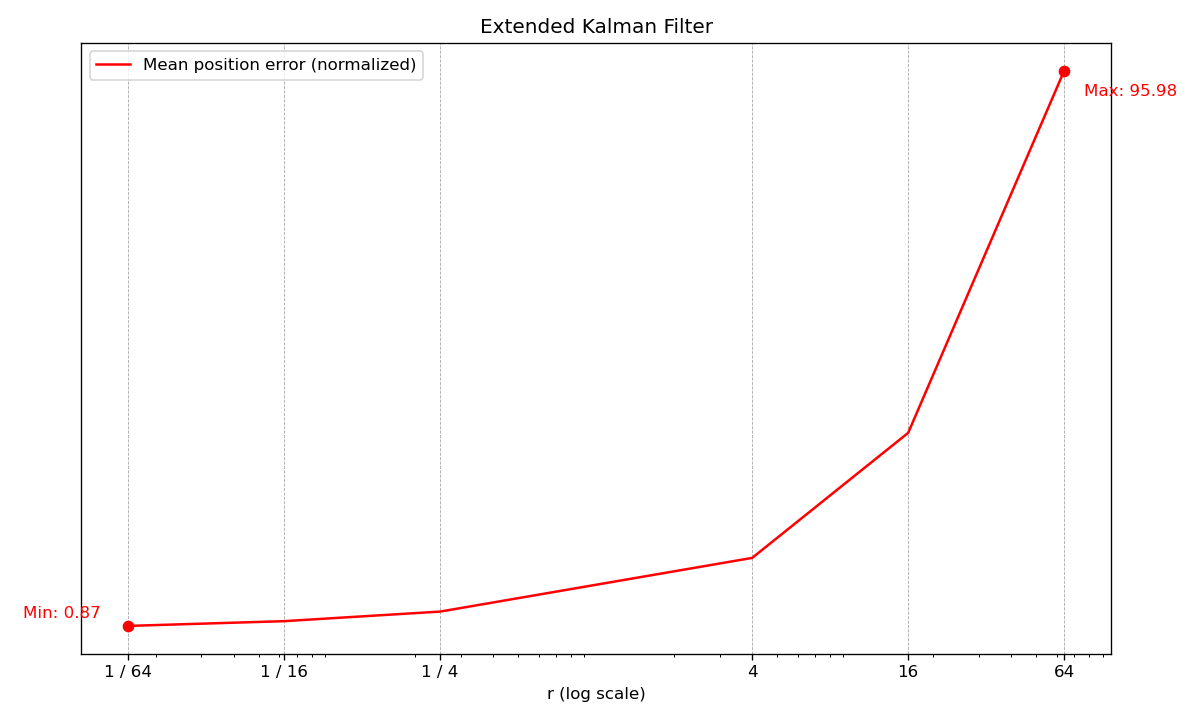
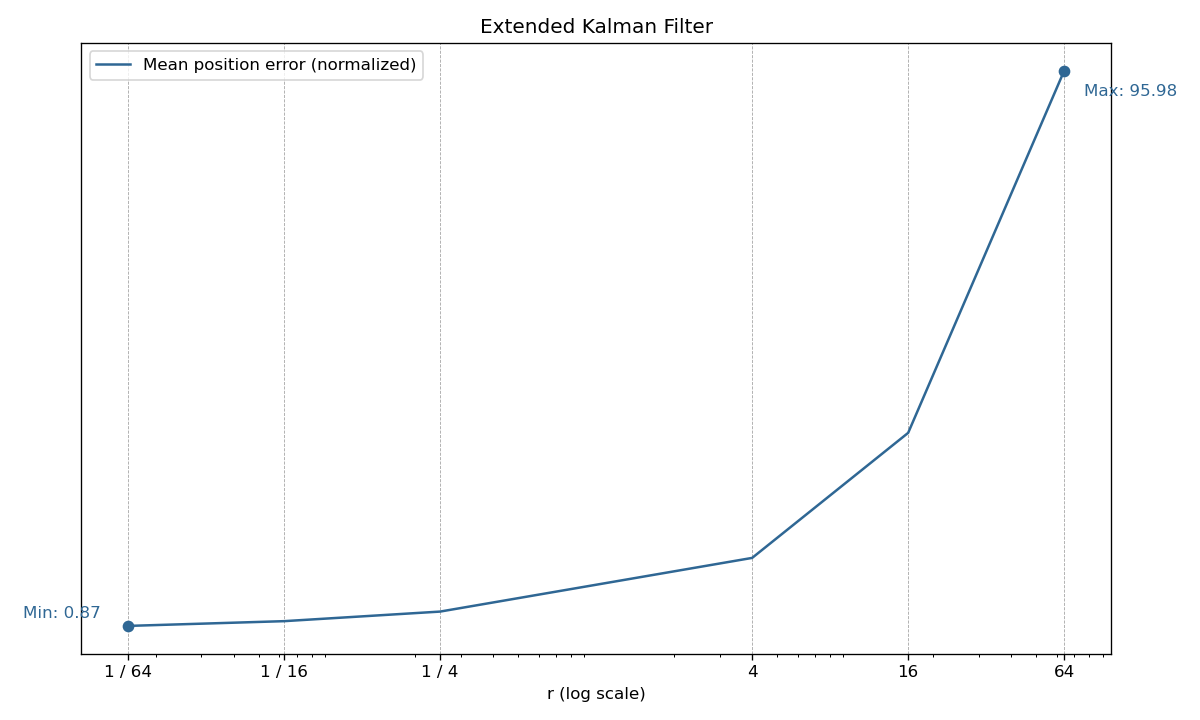
Retoques finales

diff --git a/tp4/tests.py b/tp4/tests.py
@@ -6,7 +6,8 @@ import numpy as np
 R = [1/64, 1/16, 1/4, 4, 16, 64]
 
 
-COLORS = ["red", "blue", "green", "orange", "purple", "brown"]
+# make each pair of colors very close to each other
+COLORS = ["#2f6794", "#7f8ff0", "#4c902c", "#20f070", "#a62728", "#f99098"]
 
 
 PARTICLES = [20, 50, 500]
